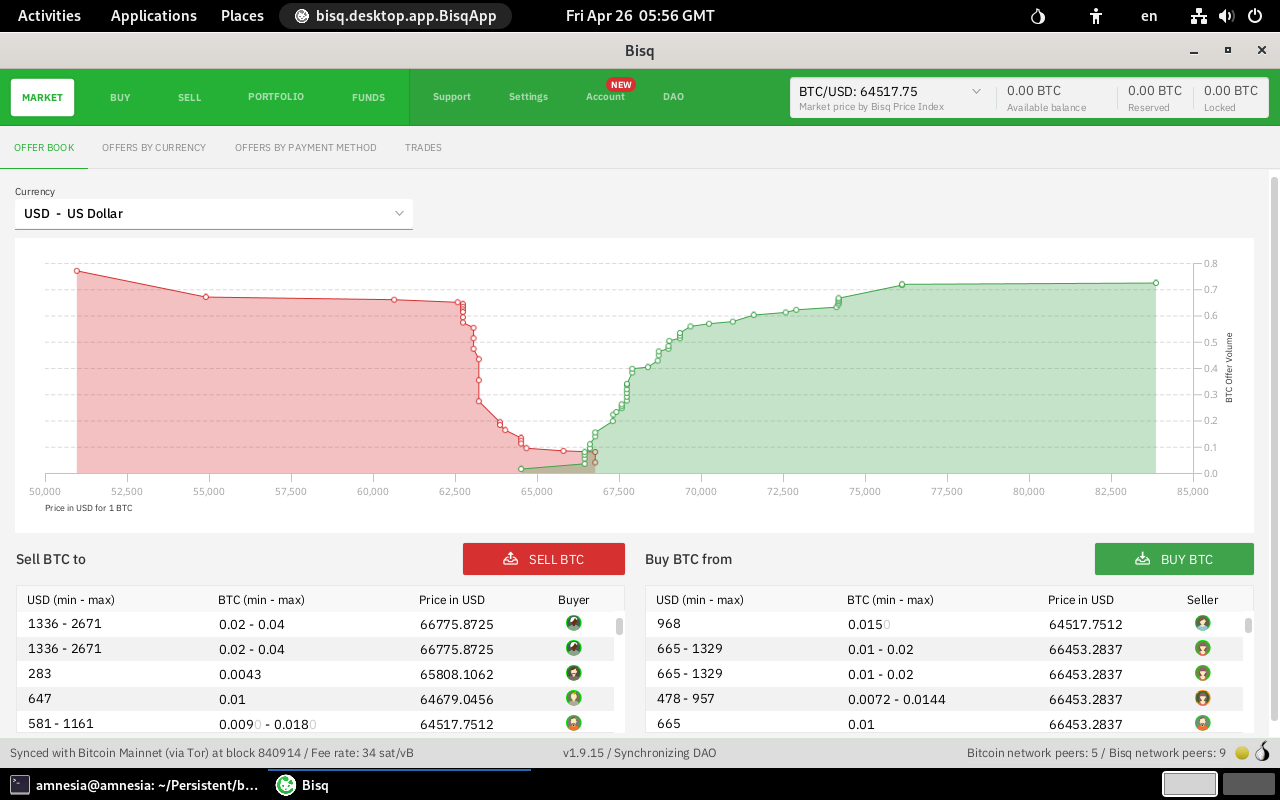
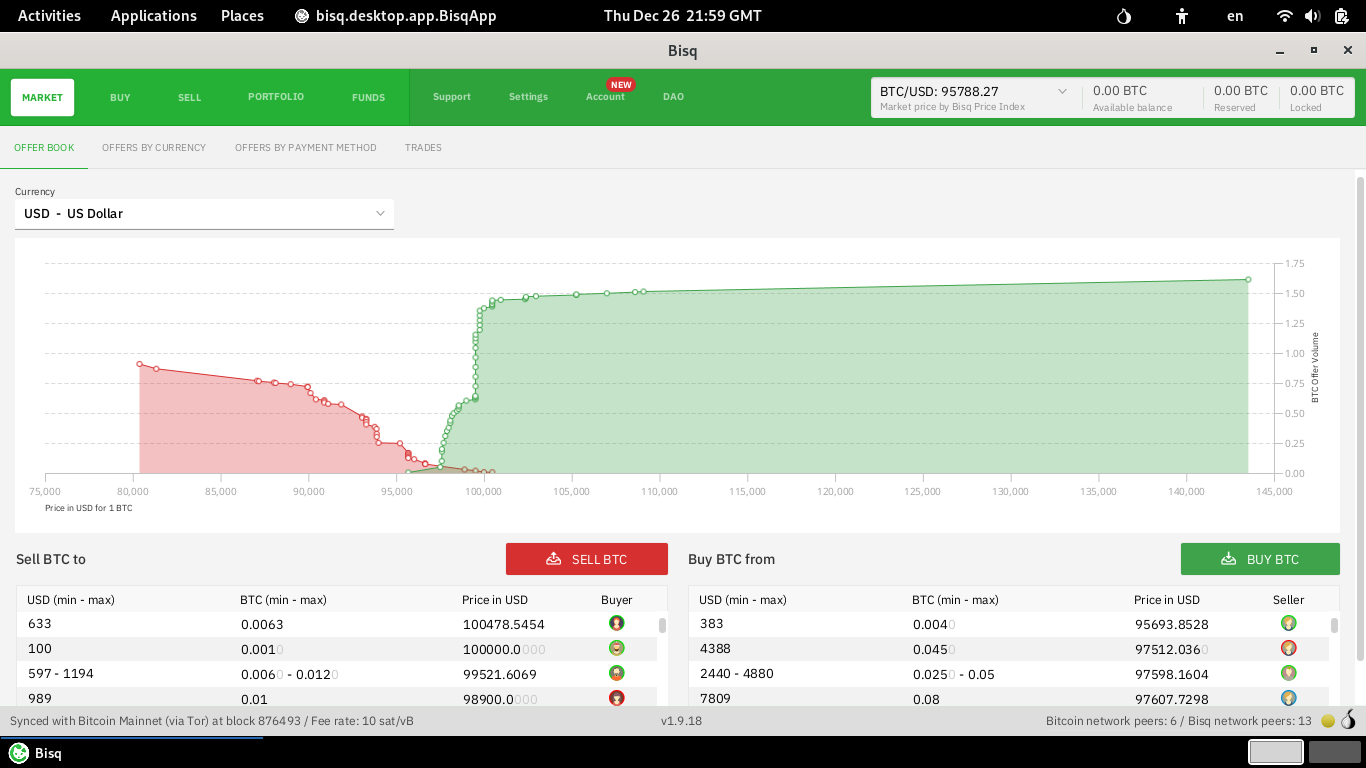
Update Bisq to v1.9.18

diff --git a/bisq/bisq.md b/bisq/bisq.md
@@ -23,7 +23,7 @@ nav_order: 50
 
 
 ---
-### Install Bisq v1.9.17
+### Install Bisq v1.9.18
 
 * Open a _Terminal_ window:  choose **Applications ▸ Utilities ▸ Terminal**
 
@@ -58,6 +58,14 @@ $ git clone https://github.com/dutu/run-on-tails.git
 ### Backup User Data
 
 * While Bisq is closed, copy your [Bisq Data directory] located at `/home/amnesia/Persistent/bisq/Bisq` to a backup location.
+
+
+---
+### Update Bisq
+
+* Follow the instructions to Install bisq
+
+* Restart Tails 
 
 
 ---
